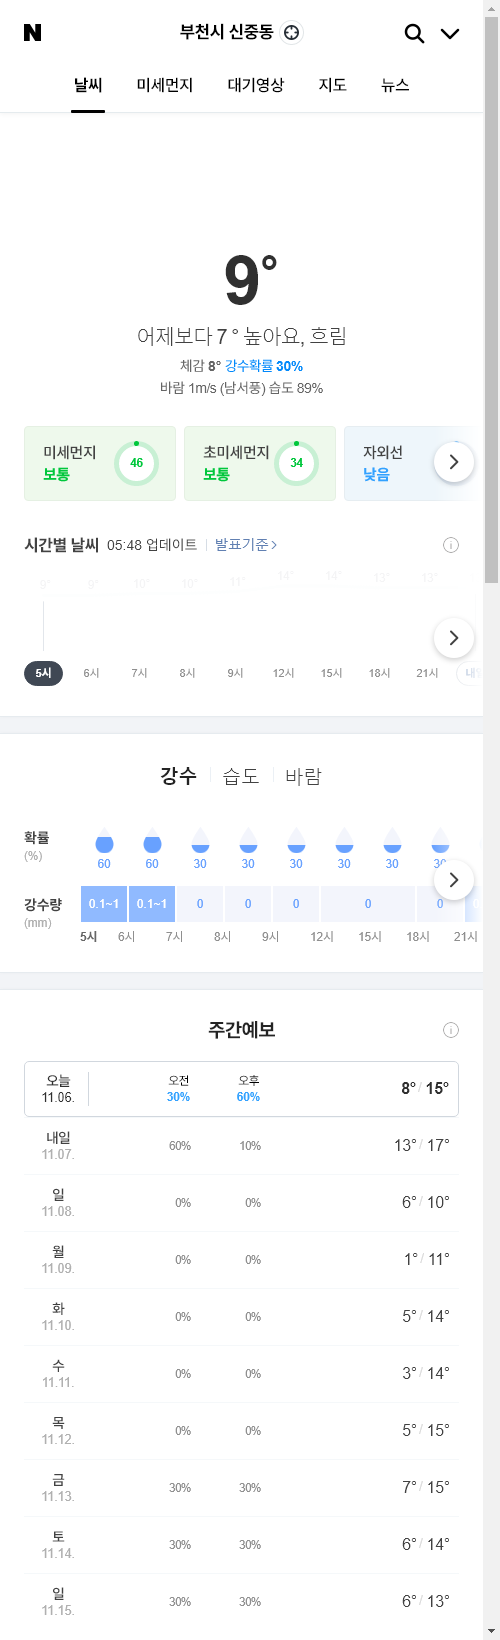
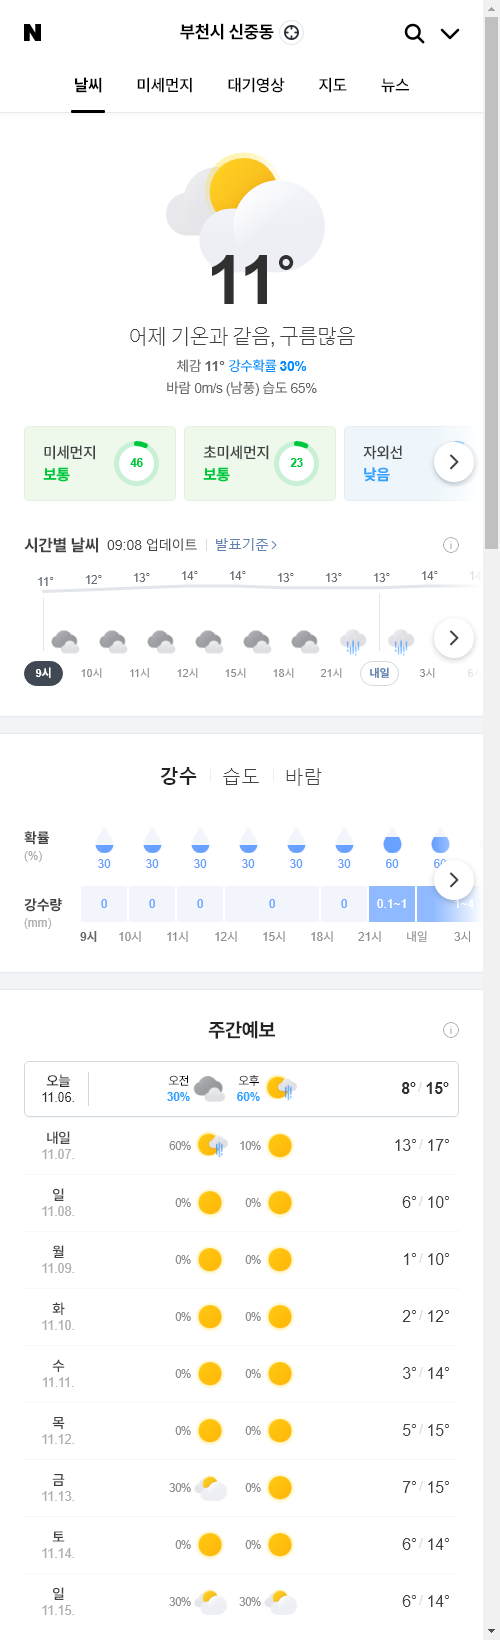
update result

diff --git a/README.md b/README.md
@@ -1,21 +1,21 @@
-##  2020-11-06 05:54:33   금요일 
-##### 날씨   -   어제보다 7 ° 높아요, 흐림
+##  2020-11-06 09:16:45   금요일 
+##### 날씨   -   어제 기온과 같음, 구름많음
 <center><img src="../img/naver_weather_week.png"></center>
 ----
 ----
 ##### 지수
 <table border="1" bordercolor="blue" align = "center" >
 <tr align = "right" > <td>Item</td><td>Point</td><td>Diff</td><td>Rate</td><td>Buy</td><td>Sell</td><td>...</td>  </tr>
-<tr align = "right" > <td>KOSPI</td><td>2,413.79</td><td>56.47</td><td><font size="3" color="red" >2.4%</font> </td><td><font size="3" color="black">2,000</font></td><td><font size="3" color="black">3,000</font></td><td>0</td>  </tr>
-<tr align = "right" > <td>KOSDAQ</td><td>844.8</td><td>17.83</td><td><font size="3" color="red" >2.16%</font> </td><td><font size="3" color="black">0</font></td><td><font size="3" color="black">0</font></td><td>0</td>  </tr>
+<tr align = "right" > <td>KOSPI</td><td>2,429.78</td><td>15.99</td><td><font size="3" color="red" >0.66%</font> </td><td><font size="3" color="black">2,000</font></td><td><font size="3" color="black">3,000</font></td><td>0</td>  </tr>
+<tr align = "right" > <td>KOSDAQ</td><td>848.46</td><td>3.66</td><td><font size="3" color="red" >0.43%</font> </td><td><font size="3" color="black">0</font></td><td><font size="3" color="black">0</font></td><td>0</td>  </tr>
 </table>
 ----
 ##### 세계
 <table border="1" bordercolor="blue" align = "center" >
 <tr align = "right" > <td>Item</td><td>Point</td><td>Diff</td><td>Rate</td><td>Buy</td><td>Sell</td><td>...</td>  </tr>
-<tr align = "right" > <td>DOW</td><td>28,328.54</td><td>480.88</td><td><font size="3" color="red" >1.73%</font></td><td><font size="3" color="black">0</font></td><td><font size="3" color="black">0</font></td><td>0</td>  </tr>
-<tr align = "right" > <td>NASDAQ</td><td>11,863.26</td><td>272.48</td><td><font size="3" color="red" >2.35%</font></td><td><font size="3" color="black">0</font></td><td><font size="3" color="black">0</font></td><td>0</td>  </tr>
-<tr align = "right" > <td>S&P</td><td>3,507.26</td><td>63.82</td><td><font size="3" color="red" >1.85%</font></td><td><font size="3" color="black">0</font></td><td><font size="3" color="black">0</font></td><td>0</td>  </tr>
+<tr align = "right" > <td>DOW</td><td>28,390.18</td><td>542.52</td><td><font size="3" color="red" >1.95%</font></td><td><font size="3" color="black">0</font></td><td><font size="3" color="black">0</font></td><td>0</td>  </tr>
+<tr align = "right" > <td>NASDAQ</td><td>11,890.93</td><td>300.15</td><td><font size="3" color="red" >2.59%</font></td><td><font size="3" color="black">0</font></td><td><font size="3" color="black">0</font></td><td>0</td>  </tr>
+<tr align = "right" > <td>S&P</td><td>3,510.45</td><td>67.01</td><td><font size="3" color="red" >1.95%</font></td><td><font size="3" color="black">0</font></td><td><font size="3" color="black">0</font></td><td>0</td>  </tr>
 <tr align = "right" > <td>SHANHAI</td><td>3,320.13</td><td>42.69</td><td><font size="3" color="red" >1.3%</font></td><td><font size="3" color="black">0</font></td><td><font size="3" color="black">0</font></td><td>0</td>  </tr>
 <tr align = "right" > <td>INDIA</td><td>41,340.16</td><td>724.02</td><td><font size="3" color="red" >1.78%</font></td><td><font size="3" color="black">0</font></td><td><font size="3" color="black">0</font></td><td>0</td>  </tr>
 </table>
@@ -23,31 +23,31 @@
 ##### 시장
 <table border="1" bordercolor="blue" align = "center" >
 <tr align = "right" > <td>Item</td><td>Price</td><td>Diff</td><td>Rate</td><td>Buy</td><td>Sell</td><td>...</td>  </tr>
-<tr align = "right" > <td>USD</td><td>1,126.0</td><td>-13.5</td><td><font size="3" color="blue">-1.18%</font></td><td><font size="3" color="black">1,110</font></td><td><font size="3" color="black">0</font></td><td>0</td>  </tr>
-<tr align = "right" > <td>WTI</td><td>39.15</td><td>1.49</td><td><font size="3" color="red">3.95%</font></td><td><font size="3" color="black">29.0</font></td><td><font size="3" color="black">0</font></td><td>0</td>  </tr>
-<tr align = "right" > <td>GOLD</td><td>1,894.0</td><td>-13.9</td><td><font size="3" color="blue">-0.72%</font></td><td><font size="3" color="black">0</font></td><td><font size="3" color="black">0</font></td><td>0</td>  </tr>
+<tr align = "right" > <td>USD</td><td>1,124.0</td><td>-2.3</td><td><font size="3" color="blue">-0.2%</font></td><td><font size="3" color="black">1,110</font></td><td><font size="3" color="black">0</font></td><td>0</td>  </tr>
+<tr align = "right" > <td>WTI</td><td>38.79</td><td>-0.36</td><td><font size="3" color="blue">-0.91%</font></td><td><font size="3" color="black">29.0</font></td><td><font size="3" color="black">0</font></td><td>0</td>  </tr>
+<tr align = "right" > <td>GOLD</td><td>1,945.0</td><td>50.7</td><td><font size="3" color="red">2.67%</font></td><td><font size="3" color="black">0</font></td><td><font size="3" color="black">0</font></td><td>0</td>  </tr>
 </table>
 ----
 ##### 주가
 <table border="1" bordercolor="blue" align = "center" >
 <tr align = "right" > <td>Item</td><td>Price</td><td>Diff</td><td>Rate</td><td>Purchased</td><td>Sell</td><td>Buy</td>  </tr>
-<tr align = "right" > <td>한국 전력</td><td>20,400</td><td>100</td><td><font size="3" color="red">0.49%</font></td><td>25,720</td><td><font size="3" color="black">30,000</font></td><td><font size="3" color="black">14,000</font></td>  </tr>
-<tr align = "right" > <td>삼성엔지니어.</td><td>11,250</td><td>0</td><td><font size="3" color="black">0.0%</font></td><td>18,935</td><td><font size="3" color="black">20,000</font></td><td><font size="3" color="black">8,000</font></td>  </tr>
-<tr align = "right" > <td>CJ CGV</td><td>20,950</td><td>100</td><td><font size="3" color="red">0.48%</font></td><td>34,895</td><td><font size="3" color="black">36,000</font></td><td><font size="3" color="black">0</font></td>  </tr>
-<tr align = "right" > <td>아모레퍼시픽</td><td>164,500</td><td>500</td><td><font size="3" color="red">0.3%</font></td><td>235,350</td><td><font size="3" color="black">240,000</font></td><td><font size="3" color="black">130,000</font></td>  </tr>
-<tr align = "right" > <td>한화</td><td>25,600</td><td>1,000</td><td><font size="3" color="red">4.07%</font></td><td>25,550</td><td><font size="3" color="black">30,000</font></td><td><font size="3" color="black">20,000</font></td>  </tr>
-<tr align = "right" > <td>NAVER</td><td>299,000</td><td>500</td><td><font size="3" color="red">0.17%</font></td><td>147,200</td><td><font size="3" color="black">400,000</font></td><td><font size="3" color="black">150,000</font></td>  </tr>
-<tr align = "right" > <td>LG 화학우</td><td>333,000</td><td>13,000</td><td><font size="3" color="red">4.06%</font></td><td>202,490</td><td><font size="3" color="black">500,000</font></td><td><font size="3" color="black">200,000</font></td>  </tr>
-<tr align = "right" > <td>스튜디오드래.</td><td>80,300</td><td>200</td><td><font size="3" color="red">0.25%</font></td><td>81,243</td><td><font size="3" color="black">100,000</font></td><td><font size="3" color="black">78,000</font></td>  </tr>
-<tr align = "right" > <td>글로벌럭셔리</td><td>12,670</td><td>155</td><td><font size="3" color="red">1.24%</font></td><td>0</td><td><font size="3" color="black">15,000</font></td><td><font size="3" color="black">10,000</font></td>  </tr>
-<tr align = "right" > <td>QV미국IT</td><td>25,095</td><td>1,240</td><td><font size="3" color="red">5.2%</font></td><td>0</td><td><font size="3" color="black">30,000</font></td><td><font size="3" color="black">20,000</font></td>  </tr>
-<tr align = "right" > <td>호텔 신라</td><td>75,700</td><td>400</td><td><font size="3" color="red">0.53%</font></td><td>72,800</td><td><font size="3" color="black">100,000</font></td><td><font size="3" color="black">70,000</font></td>  </tr>
-<tr align = "right" > <td>S-Oil</td><td>57,200</td><td>800</td><td><font size="3" color="red">1.42%</font></td><td>62,842</td><td><font size="3" color="black">100,000</font></td><td><font size="3" color="black">50,000</font></td>  </tr>
-<tr align = "right" > <td>LG전자</td><td>86,500</td><td>400</td><td><font size="3" color="red">0.46%</font></td><td>82,022</td><td><font size="3" color="black">100,000</font></td><td><font size="3" color="black">60,000</font></td>  </tr>
-<tr align = "right" > <td>지역난방공사</td><td>37,900</td><td>550</td><td><font size="3" color="red">1.47%</font></td><td>43,590</td><td><font size="3" color="black">60,000</font></td><td><font size="3" color="black">30,000</font></td>  </tr>
-<tr align = "right" > <td>KOEDX은행</td><td>5,795</td><td>85</td><td><font size="3" color="red">1.49%</font></td><td>5,178</td><td><font size="3" color="black">6,000</font></td><td><font size="3" color="black">4,500</font></td>  </tr>
-<tr align = "right" > <td>삼성 전자우</td><td>53,500</td><td>1,300</td><td><font size="3" color="red">2.49%</font></td><td>48,250</td><td><font size="3" color="black">56,000</font></td><td><font size="3" color="black">45,000</font></td>  </tr>
-<tr align = "right" > <td>한화에어로스.</td><td>26,100</td><td>550</td><td><font size="3" color="red">2.15%</font></td><td>25,700</td><td><font size="3" color="black">30,000</font></td><td><font size="3" color="black">24,000</font></td>  </tr>
-<tr align = "right" > <td>한국금융지주</td><td>72,200</td><td>1,300</td><td><font size="3" color="red">1.83%</font></td><td>0</td><td><font size="3" color="black">82,000</font></td><td><font size="3" color="black">60,000</font></td>  </tr>
+<tr align = "right" > <td>한국 전력</td><td>20,500</td><td>100</td><td><font size="3" color="red">0.49%</font></td><td>25,720</td><td><font size="3" color="black">30,000</font></td><td><font size="3" color="black">14,000</font></td>  </tr>
+<tr align = "right" > <td>삼성엔지니어.</td><td>11,500</td><td>250</td><td><font size="3" color="red">2.22%</font></td><td>18,935</td><td><font size="3" color="black">20,000</font></td><td><font size="3" color="black">8,000</font></td>  </tr>
+<tr align = "right" > <td>CJ CGV</td><td>20,850</td><td>-100</td><td><font size="3" color="blue">-0.48%</font></td><td>34,895</td><td><font size="3" color="black">36,000</font></td><td><font size="3" color="black">0</font></td>  </tr>
+<tr align = "right" > <td>아모레퍼시픽</td><td>164,000</td><td>-500</td><td><font size="3" color="blue">-0.3%</font></td><td>235,350</td><td><font size="3" color="black">240,000</font></td><td><font size="3" color="black">130,000</font></td>  </tr>
+<tr align = "right" > <td>한화</td><td>25,650</td><td>50</td><td><font size="3" color="red">0.2%</font></td><td>25,550</td><td><font size="3" color="black">30,000</font></td><td><font size="3" color="black">20,000</font></td>  </tr>
+<tr align = "right" > <td>NAVER</td><td>306,500</td><td>7,500</td><td><font size="3" color="red">2.51%</font></td><td>147,200</td><td><font size="3" color="black">400,000</font></td><td><font size="3" color="black">150,000</font></td>  </tr>
+<tr align = "right" > <td>LG 화학우</td><td>341,500</td><td>8,500</td><td><font size="3" color="red">2.55%</font></td><td>202,490</td><td><font size="3" color="black">500,000</font></td><td><font size="3" color="black">200,000</font></td>  </tr>
+<tr align = "right" > <td>스튜디오드래.</td><td>82,500</td><td>2,200</td><td><font size="3" color="red">2.74%</font></td><td>81,243</td><td><font size="3" color="black">100,000</font></td><td><font size="3" color="black">78,000</font></td>  </tr>
+<tr align = "right" > <td>글로벌럭셔리</td><td>12,780</td><td>110</td><td><font size="3" color="red">0.87%</font></td><td>0</td><td><font size="3" color="black">15,000</font></td><td><font size="3" color="black">10,000</font></td>  </tr>
+<tr align = "right" > <td>QV미국IT</td><td>25,335</td><td>240</td><td><font size="3" color="red">0.96%</font></td><td>0</td><td><font size="3" color="black">30,000</font></td><td><font size="3" color="black">20,000</font></td>  </tr>
+<tr align = "right" > <td>호텔 신라</td><td>75,600</td><td>-100</td><td><font size="3" color="blue">-0.13%</font></td><td>72,800</td><td><font size="3" color="black">100,000</font></td><td><font size="3" color="black">70,000</font></td>  </tr>
+<tr align = "right" > <td>S-Oil</td><td>56,900</td><td>-300</td><td><font size="3" color="blue">-0.52%</font></td><td>62,842</td><td><font size="3" color="black">100,000</font></td><td><font size="3" color="black">50,000</font></td>  </tr>
+<tr align = "right" > <td>LG전자</td><td>86,900</td><td>400</td><td><font size="3" color="red">0.46%</font></td><td>82,022</td><td><font size="3" color="black">100,000</font></td><td><font size="3" color="black">60,000</font></td>  </tr>
+<tr align = "right" > <td>지역난방공사</td><td>37,900</td><td>0</td><td><font size="3" color="black">0.0%</font></td><td>43,590</td><td><font size="3" color="black">60,000</font></td><td><font size="3" color="black">30,000</font></td>  </tr>
+<tr align = "right" > <td>KOEDX은행</td><td>5,825</td><td>30</td><td><font size="3" color="red">0.52%</font></td><td>5,178</td><td><font size="3" color="black">6,000</font></td><td><font size="3" color="black">4,500</font></td>  </tr>
+<tr align = "right" > <td>삼성 전자우</td><td>53,900</td><td>400</td><td><font size="3" color="red">0.75%</font></td><td>48,250</td><td><font size="3" color="black">56,000</font></td><td><font size="3" color="black">45,000</font></td>  </tr>
+<tr align = "right" > <td>한화에어로스.</td><td>26,150</td><td>50</td><td><font size="3" color="red">0.19%</font></td><td>25,700</td><td><font size="3" color="black">30,000</font></td><td><font size="3" color="black">24,000</font></td>  </tr>
+<tr align = "right" > <td>한국금융지주</td><td>72,500</td><td>300</td><td><font size="3" color="red">0.42%</font></td><td>0</td><td><font size="3" color="black">82,000</font></td><td><font size="3" color="black">60,000</font></td>  </tr>
 </table>
 ----
